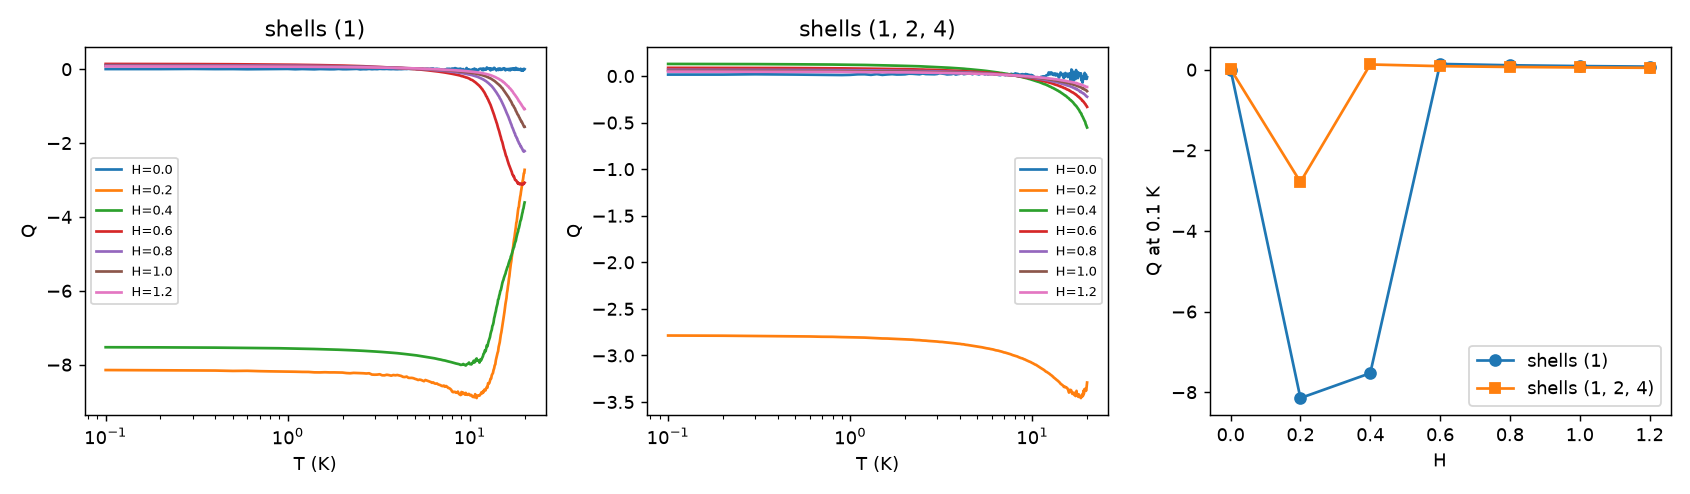
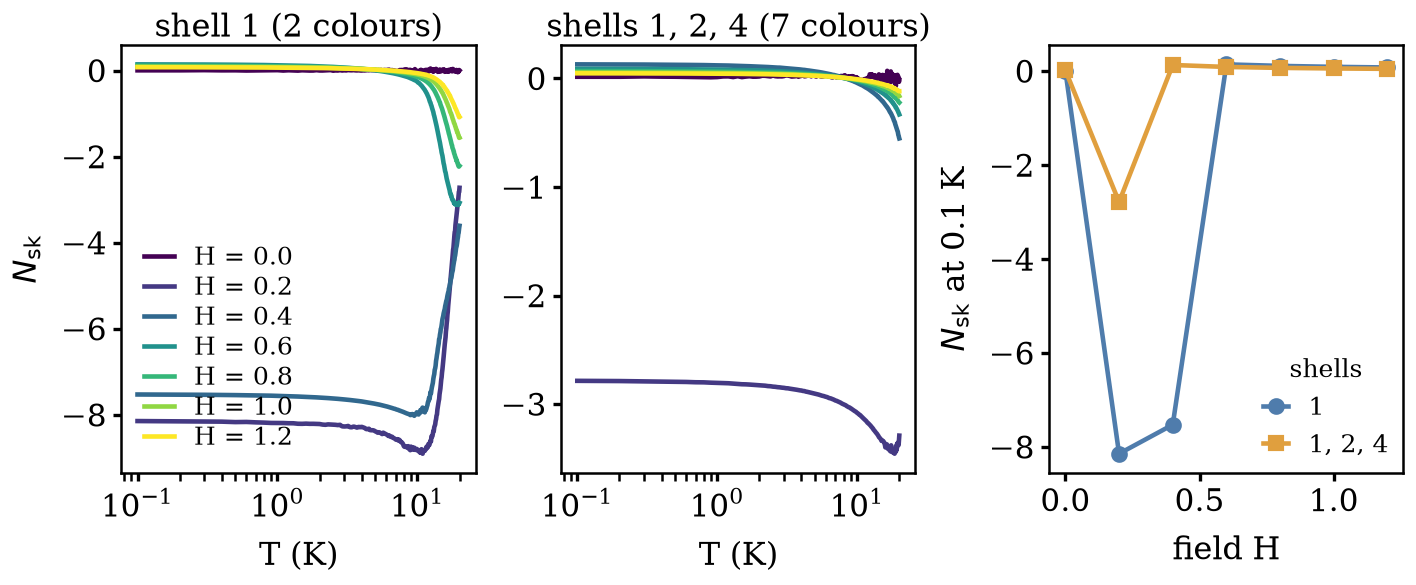
feat(results): add the periodic-against-periodic XLA comparison and redraw the nanodisk figure

diff --git a/src/Spin_Colour_Kernel/width_law_b.py b/src/Spin_Colour_Kernel/width_law_b.py
@@ -192,6 +192,25 @@ def grids_gen(threshold: int, quick: bool = False):
     return g
 
 
+PP_L1 = tuple(range(98, 112, 2))      # even L1 next to GEN_L1, so both sides run periodic
+
+
+def _even(L: int) -> int:
+    return L if L % 2 == 0 else L + 1
+
+
+def grids_pp(threshold: int, quick: bool = False):
+    """Periodic against periodic: the grids of grids_gen with every side moved to its even neighbour (L + 1
+    for odd L), where the generated kernel admits a periodic linear colouring of at most four colours, so
+    neither side falls back to an open box. The slabs keep sides 32 x 32 and take L1 in PP_L1."""
+    g = [(f, B, n, b, tuple(_even(L) for L in box)) for f, B, n, b, box in grids_gen(threshold, quick)
+         if f in ("below", "above")]
+    L1s = PP_L1[:3] if quick else PP_L1
+    g += [("layer-heis", 21, 3, 1, (L1, 32, 32)) for L1 in L1s]
+    g += [("layer", 63, 1, 1, (L1, 32, 32)) for L1 in L1s]
+    return g
+
+
 GENB_B = tuple(range(1, 17)) + (20, 24, 28, 31, 32, 33, 40, 48, 56, 63, 64)
 GENB_BOX = (27, 27, 27)     # odd composite side: 3 colours for sc, while gcd(N, 4) = gcd(B n, 4) follows B
 JUMP = math.log(1.05)
@@ -307,11 +326,11 @@ def main(argv=None):
     ap.add_argument("--quick", action="store_true")
     ap.add_argument("--tag", default="E5b")
     ap.add_argument("--reps", type=int, default=5)
-    ap.add_argument("--set", choices=("b", "c", "conf", "gen", "genb"), default="b",
+    ap.add_argument("--set", choices=("b", "c", "conf", "gen", "genb", "pp"), default="b",
                     help="b: grids around the threshold; c: N >= 10^6; conf: experiments v04 E5 confirmatory grids")
     a = ap.parse_args(argv)
     conf = a.set == "conf"
-    genset = a.set in ("gen", "genb")
+    genset = a.set in ("gen", "genb", "pp")
     if conf or genset:   # the device threshold decides the (a) grids, so read it before JAX starts
         import torch
         props0 = torch.cuda.get_device_properties(0)
@@ -342,6 +361,7 @@ def main(argv=None):
     make_step = make_baseline_step          # the E5 baseline, unchanged
 
     G = (grids_conf(threshold0, a.quick) if conf else grids_genb(a.quick) if a.set == "genb"
+         else grids_pp(threshold0, a.quick) if a.set == "pp"
          else grids_gen(threshold0, a.quick) if genset
          else grids_c(a.quick) if a.set == "c" else grids(a.quick))
     mon = None
@@ -389,7 +409,8 @@ def main(argv=None):
         from Spin_Colour_Kernel.sampler import Sampler
         for i, (factor, B, n, b, box) in enumerate(G):
             c = cr.make(crystal_for_b[b])
-            for per_ in ((True,) * 3, (False,) * 3):
+            # the pp set never falls back to an open box: a grid without a periodic colouring stops the run
+            for per_ in (((True,) * 3,) if a.set == "pp" else ((True,) * 3, (False,) * 3)):
                 try:
                     s_ = sy.System(f"E5gen {crystal_for_b[b]} n={n}", n, c, box, per_, {1: 1.0})
                     break

diff --git a/remote/plot_rd_nanodisk.py b/remote/plot_rd_nanodisk.py
@@ -1,0 +1,49 @@
+"""Nanodisk figure for the results section, redrawn from the raw E9 states.
+
+usage: plot_rd_nanodisk.py <dir> [<dir> ...] <out.png>
+Each directory holds state_E9s*-H<field>.npz files; obs[:, 5, :] is the skyrmion number N_sk per temperature
+and replica. Left and middle: N_sk against temperature per field for shell 1 and for shells 1, 2 and 4; right:
+N_sk at the lowest temperature against the field.
+"""
+import glob
+import re
+import sys
+
+import matplotlib
+import numpy as np
+
+matplotlib.use("agg")
+import matplotlib.pyplot as plt
+
+*dirs, out = sys.argv[1:]
+runs = {"1": {}, "124": {}}
+for d in dirs:
+    for f in glob.glob(f"{d}/state_E9s*-H*.npz"):
+        m = re.search(r"E9s(1|124)-H([0-9.]+)\.npz$", f)
+        z = np.load(f)
+        runs[m.group(1)][float(m.group(2))] = (z["temperatures"], z["obs"][:, 5, :].mean(axis=1))
+
+plt.rcParams.update({"font.size": 7.6, "axes.labelsize": 7.6, "axes.titlesize": 7.6, "xtick.labelsize": 7.4,
+                     "ytick.labelsize": 7.4, "legend.fontsize": 7.0, "font.family": "serif",
+                     "axes.linewidth": 0.6, "lines.linewidth": 1.1})
+fig, axes = plt.subplots(1, 3, figsize=(4.72, 1.95), constrained_layout=True)
+cmap = plt.get_cmap("viridis")
+for ax, key, title in ((axes[0], "1", "shell 1 (2 colours)"), (axes[1], "124", "shells 1, 2, 4 (7 colours)")):
+    fields = sorted(runs[key])
+    for k, h in enumerate(fields):
+        T, q = runs[key][h]
+        ax.plot(T, q, color=cmap(k / max(1, len(fields) - 1)), label=f"H = {h:.1f}")
+    ax.set_xscale("log")
+    ax.set_title(title, pad=2)
+    ax.set_xlabel("T (K)")
+axes[0].set_ylabel(r"$N_{\mathrm{sk}}$")
+axes[0].legend(ncol=1, frameon=False, loc="lower left", handlelength=1.2, labelspacing=0.2, fontsize=6.0)
+for key, label, color, marker in (("1", "1", "#4F7CAC", "o"), ("124", "1, 2, 4", "#E09F3E", "s")):
+    fields = sorted(runs[key])
+    axes[2].plot(fields, [runs[key][h][1][-1] for h in fields], marker=marker, markersize=3, color=color, label=label)
+axes[2].set_xlabel("field H")
+axes[2].set_ylabel(r"$N_{\mathrm{sk}}$ at 0.1 K")
+axes[2].legend(frameon=False, loc="lower right", handlelength=1.0, fontsize=6.0, borderaxespad=0.2, title="shells", title_fontsize=6.0)
+for ax in axes:
+    ax.tick_params(length=2, pad=1.5)
+fig.savefig(out, dpi=300)

diff --git a/remote/fold_pp.py b/remote/fold_pp.py
@@ -1,0 +1,36 @@
+"""Fold the periodic-against-periodic E5pp runs into results-product tables.
+
+usage: fold_pp.py <out-dir> <device>=<run-dir> [<device>=<run-dir> ...]
+Writes e5pp-gen-vs-xla.csv (one row per grid and device: paired log speed-up of the generated kernel over the
+XLA baseline with its bootstrap interval, both sides periodic) and e5pp-spread.csv (max / min median cost over
+the slab sweeps for each side).
+"""
+import csv
+import json
+import math
+import sys
+from pathlib import Path
+
+out = Path(sys.argv[1])
+pairs = [a.split("=", 1) for a in sys.argv[2:]]
+grid_rows, spread_rows = [], []
+for device, run in pairs:
+    d = json.loads((Path(run) / "E5pp.json").read_text())
+    v = d["summary"]["v15"]
+    tag = "/".join(Path(run).parts[-2:])
+    for g in v["grids"]:
+        grid_rows.append({"Device": device, "Grid set": g["factor"], "B": g["B"], "n": g["n"], "b": g["b"],
+                          "Box": "x".join(map(str, g["box"])), "Generated periodic": g["generated_periodic"],
+                          "Log speed-up": round(g["log_speedup"], 3), "Low": round(g["low"], 3),
+                          "High": round(g["high"], 3), "Speed-up": round(math.exp(g["log_speedup"]), 3),
+                          "Generated faster": g["generated_faster"], "Run": tag})
+    for fac, s in v["spread"].items():
+        spread_rows.append({"Device": device, "Grid set": fac, "L1": " ".join(map(str, s["L1"])),
+                            "XLA max/min": round(s["xla_max_over_min"], 3),
+                            "Generated max/min": round(s["generated_max_over_min"], 3), "Run": tag})
+for name, rows in (("e5pp-gen-vs-xla.csv", grid_rows), ("e5pp-spread.csv", spread_rows)):
+    with open(out / name, "w", newline="") as f:
+        w = csv.DictWriter(f, fieldnames=list(rows[0]))
+        w.writeheader()
+        w.writerows(rows)
+    print(name, len(rows))

diff --git a/tests/test_core.py b/tests/test_core.py
@@ -573,3 +573,17 @@ def test_e5_profile_roofline_targets_exceed_the_h100_l2():
         kind, crystal, L, B, packed = GEN[spec]
         basis = {"sc": 1, "fcc": 4}[crystal]
         assert kind == "heisenberg" and L ** 3 * basis * B * 3 * 4 > 50 * 2 ** 20
+
+
+def test_periodic_pair_grids_are_even_and_admit_a_periodic_colouring():
+    from Spin_Colour_Kernel import crystals as cr
+    from Spin_Colour_Kernel import system as sy
+    from Spin_Colour_Kernel.width_law_b import grids_pp
+    g = grids_pp(threshold=270336)          # H100 resident-thread count (132 SMs x 2048)
+    assert {x[0] for x in g} >= {"below", "above", "layer-heis", "layer"}
+    for factor, B, n, b, box in g:
+        assert all(L % 2 == 0 for L in box), box
+    crystal_for_b = {1: "sc", 2: "bcc", 4: "fcc"}
+    for factor, B, n, b, box in {(x[0], x[1], x[2], x[3], x[4]) for x in g if x[0] in ("below", "above")}:
+        s = sy.System("pp", n, cr.make(crystal_for_b[b]), box, (True,) * 3, {1: 1.0})
+        assert s.colouring.n_colours <= 4

diff --git a/src/Spin_Colour_Kernel/run.py b/src/Spin_Colour_Kernel/run.py
@@ -200,6 +200,13 @@ def main(argv=None):
                 r = subprocess.run(cmd)
                 if r.returncode:
                     raise RuntimeError(f"width_law_b exited {r.returncode}")
+            elif e == "E5pp":
+                # periodic against periodic: the E5gen grids moved to even sides, no open-box fallback
+                cmd = [sys.executable, "-m", "Spin_Colour_Kernel.width_law_b", "--out", str(out), "--tag", "E5pp",
+                       "--set", "pp", "--reps", "3" if sm else "10"] + (["--quick"] if sm else [])
+                r = subprocess.run(cmd)
+                if r.returncode:
+                    raise RuntimeError(f"width_law_b exited {r.returncode}")
             elif e == "E5gen":
                 # experiments v15, H4 reframed: generated kernel against the XLA baseline (JAX 0.4.35 image)
                 cmd = [sys.executable, "-m", "Spin_Colour_Kernel.width_law_b", "--out", str(out), "--tag", "E5gen",
